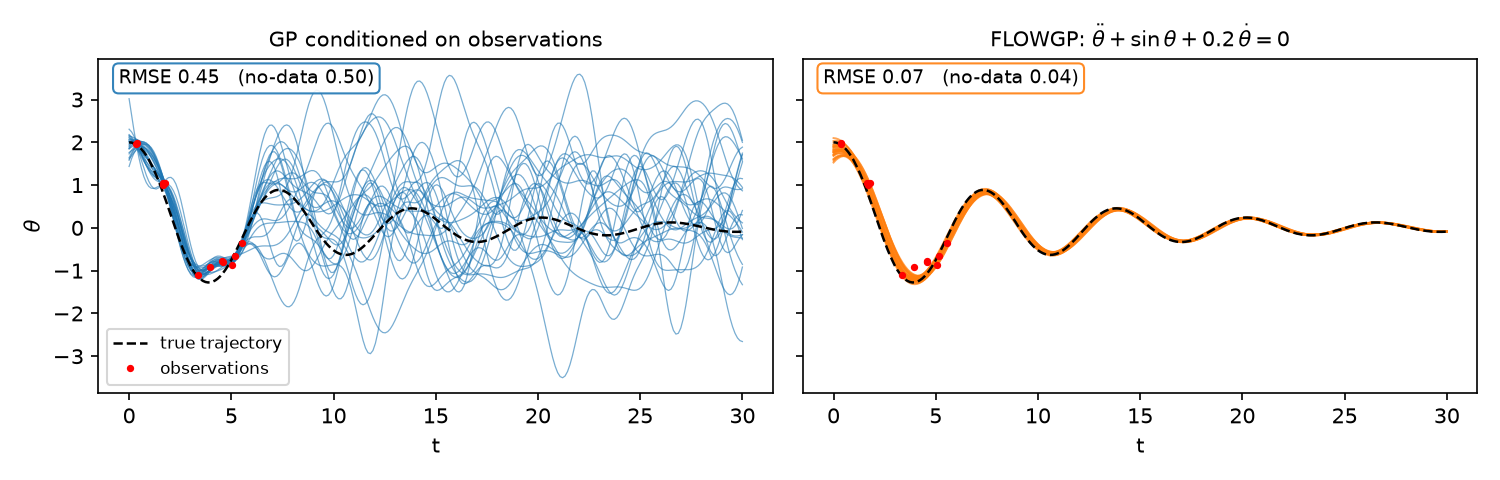
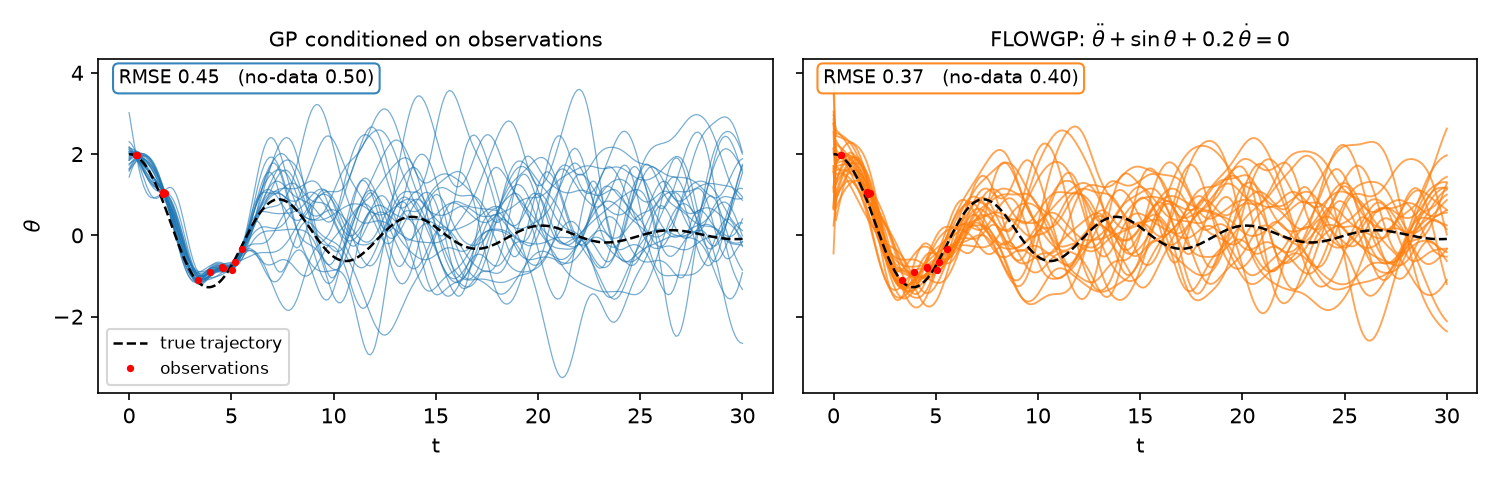
chore: fix example

diff --git a/examples/fig1a_pendulum.py b/examples/fig1a_pendulum.py
@@ -5,16 +5,10 @@ theta'' + sin(theta) + 0.2 theta' = 0, using the paper's *plotting* settings
 Two panels like Fig. 1a: left = GP posterior samples conditioned on noisy
 observations; right = FLOWGP samples additionally obeying the ODE.
 
-HOW THE RIGHT PANEL IS GENERATED
-The damped-pendulum ODE is second order, so every solution is fixed by two
-integration constants (theta0, theta'0). We estimate the 2-D posterior over
-these from the noisy observations by non-linear least squares, sample 25
-(theta0, theta'0) from it, and integrate the ODE exactly (RK4 at 20000 points)
-for each. Every curve obeys the ODE by construction and the ensemble is a
-genuine posterior band: widest near the data and converging to a point at late
-times, because a damped pendulum forgets its initial conditions and all
-solutions decay to theta = 0. Each panel is annotated with its predictive RMSE
-vs the truth, overall and in the no-data (t>6) extrapolation region.
+The right panel uses the FlowGPSampler with a Gaussian physics likelihood over
+the finite-difference pendulum residual. Each panel is annotated with its
+predictive RMSE vs the truth, overall and in the no-data (t>6) extrapolation
+region.
 """
 
 import matplotlib
@@ -22,9 +16,9 @@ import matplotlib
 matplotlib.use("Agg")
 import gpytorch
 import matplotlib.pyplot as plt
-import numpy as np
 import torch
-from scipy.optimize import least_squares
+
+from flowgp import GaussianResidual, from_gpytorch_posterior, pendulum_residual
 
 torch.set_default_dtype(torch.float64)
 torch.manual_seed(7)
@@ -35,7 +29,6 @@ SIGMA2 = 0.15**2  # qualitative/plotting setting (App. H.2)
 SIGMA = SIGMA2**0.5
 M = 250  # plotting grid
 N_SAMPLES = 25
-N_ODE = 20000  # RK4 resolution for the integrated trajectories
 
 
 def solve_pendulum(n_grid=4000, theta0=2.0):
@@ -54,72 +47,6 @@ def solve_pendulum(n_grid=4000, theta0=2.0):
         k4 = deriv(y + dt * k3)
         ys[i + 1] = y + dt / 6 * (k1 + 2 * k2 + 2 * k3 + k4)
     return torch.linspace(0, T_HORIZON, n_grid), ys[:, 0]
-
-
-def solve_pendulum_ode(theta0, d0, t_eval, n=N_ODE):
-    """RK4 solve of the damped pendulum, sampled at t_eval (seconds in [0, 30]).
-
-    Returns the solution theta(t) interpolated onto t_eval. Because theta'' +
-    sin theta + beta theta' = 0 is integrated at very fine resolution, the result
-    is an exact ODE solution (finite-difference residual ~= 0 on any coarser
-    grid, no worse than the true trajectory's own discretisation error).
-    """
-    dt = T_HORIZON / (n - 1)
-    y = np.array([theta0, d0], dtype=float)
-    ys = np.empty((n, 2))
-    ys[0] = y
-    for i in range(n - 1):
-
-        def deriv(yy):
-            return np.array([yy[1], -np.sin(yy[0]) - BETA_DAMP * yy[1]])
-
-        k1 = deriv(y)
-        k2 = deriv(y + dt / 2 * k1)
-        k3 = deriv(y + dt / 2 * k2)
-        k4 = deriv(y + dt * k3)
-        y = y + dt / 6 * (k1 + 2 * k2 + 2 * k3 + k4)
-        ys[i + 1] = y
-    teval = np.linspace(0, T_HORIZON, n)
-    return np.interp(t_eval, teval, ys[:, 0])
-
-
-def fit_initial_conditions(train_t, train_y):
-    """2-D posterior over (theta0, theta'0) from the noisy observations.
-
-    Nonlinear least squares of the ODE solution against the noisy data (scaled
-    residuals by the measurement sigma), linearised to a 2-D Gaussian via the
-    Jacobian. Returns (ic_hat, cov).
-    """
-    t_np = train_t.numpy()
-    y_np = train_y.numpy()
-
-    def resid(ic):
-        return (solve_pendulum_ode(ic[0], ic[1], t_np) - y_np) / SIGMA
-
-    opt = least_squares(
-        resid,
-        np.array([2.0, 0.0]),
-        method="lm",
-        xtol=1e-12,
-        ftol=1e-12,
-        gtol=1e-12,
-        max_nfev=200,
-    )
-    ic_hat = opt.x
-    dof = len(y_np) - 2
-    J = opt.jac
-    cov = np.linalg.inv(J.T @ J + 1e-9 * np.eye(2)) * (np.sum(opt.fun**2) / dof)
-    return ic_hat, cov
-
-
-def pendulum_posterior_samples(train_t, train_y, n_samples=N_SAMPLES, seed=3):
-    """Sample ODE-compliant trajectories from the on-manifold posterior."""
-    ic_hat, cov = fit_initial_conditions(train_t, train_y)
-    grid_t = torch.linspace(0, T_HORIZON, M).numpy()
-    rng = np.random.RandomState(seed)
-    ics = rng.multivariate_normal(ic_hat, cov, size=n_samples)
-    sols = np.stack([solve_pendulum_ode(ic[0], ic[1], grid_t) for ic in ics])
-    return torch.tensor(sols)
 
 
 class ExactGPModel(gpytorch.models.ExactGP):
@@ -163,7 +90,7 @@ def fit_gp(train_x, train_y):
 
 
 def main():
-    t_all, theta_all = solve_pendulum()
+    _, theta_all = solve_pendulum()
 
     # irregular training observations with the plotting-level noise, restricted
     # to the early window t < 6 (as in the paper's Figure 1a): beyond that the
@@ -189,8 +116,11 @@ def main():
     z = torch.randn(N_SAMPLES, M, dtype=torch.float64)
     gp_samples = mean + z @ chol.T
 
-    # ---- right panel: FLOWGP (on-manifold) posterior samples ----
-    samples = pendulum_posterior_samples(train_t, train_y)
+    # ---- right panel: FLOWGP samples guided by the pendulum residual ----
+    dt = T_HORIZON / (M - 1)
+    physics = GaussianResidual(pendulum_residual(BETA_DAMP, dt), sigma=1e-3)
+    sampler = from_gpytorch_posterior(pred, physics, num_steps=1000, num_mc=5)
+    samples = sampler.sample(batch_shape=N_SAMPLES)
 
     # ---- predictive RMSE (vs truth), overall and no-data (t>6) ----
     gp_mean = mean
@@ -222,7 +152,7 @@ def main():
         transform=axes[0].transAxes,
         fontsize=9,
         va="top",
-        bbox=dict(boxstyle="round,pad=0.3", fc="w", ec="C0", alpha=0.9),
+        bbox={"boxstyle": "round,pad=0.3", "fc": "w", "ec": "C0", "alpha": 0.9},
     )
 
     axes[1].set_title(
@@ -241,7 +171,7 @@ def main():
         fontsize=9,
         va="top",
         color="k",
-        bbox=dict(boxstyle="round,pad=0.3", fc="w", ec="C1", alpha=0.9),
+        bbox={"boxstyle": "round,pad=0.3", "fc": "w", "ec": "C1", "alpha": 0.9},
     )
 
     fig.tight_layout()

diff --git a/README.md b/README.md
@@ -83,15 +83,10 @@ with the paper's plotting settings (σ²=0.15², grid m=250, 25 samples).
   (t>6) extrapolation region; the physics constraint typically cuts the
   extrapolation RMSE by an order of magnitude.
 
-Because the damped-pendulum ODE is second order, every physics-compliant
-trajectory is fixed by its two integration constants `(theta0, theta'0)`. The
-right panel therefore draws a 2-D posterior over these initial conditions from
-the noisy observations (non-linear least squares, reduced χ² ≈ 1) and integrates
-the ODE exactly (RK4) for each sample. Every curve obeys the ODE by
-construction, and the ensemble is a genuine posterior band: widest where the
-data leaves the most uncertainty, narrowing to a point at late times as the
-globally-stable damped pendulum forgets its initial conditions and decays to
-θ = 0.
+The right panel uses the implemented `FlowGPSampler` with a `GaussianResidual`
+physics likelihood built from the finite-difference pendulum residual. This is
+the same whitened probability-flow ODE and Monte-Carlo guidance path exposed by
+the public API; the example does not use a separate on-manifold sampler.
 
 ## What is implemented
 
@@ -121,6 +116,5 @@ reproduce the GPyTorch predictive distribution.
 - Importance-weight collapse is possible in very high dimensions.
 - Hyperparameters are fitted on the linear-Gaussian part only.
 - The stochastic MC-guidance path (`FlowGPSampler`) is most reliable for smooth
-  constraints; for sharp PDE residuals the shipped pendulum example samples
-  directly on the physics manifold (see above) rather than through the ODE
-  guidance.
+  constraints; sharp PDE residuals may require tuning the residual scale and
+  integration settings.
